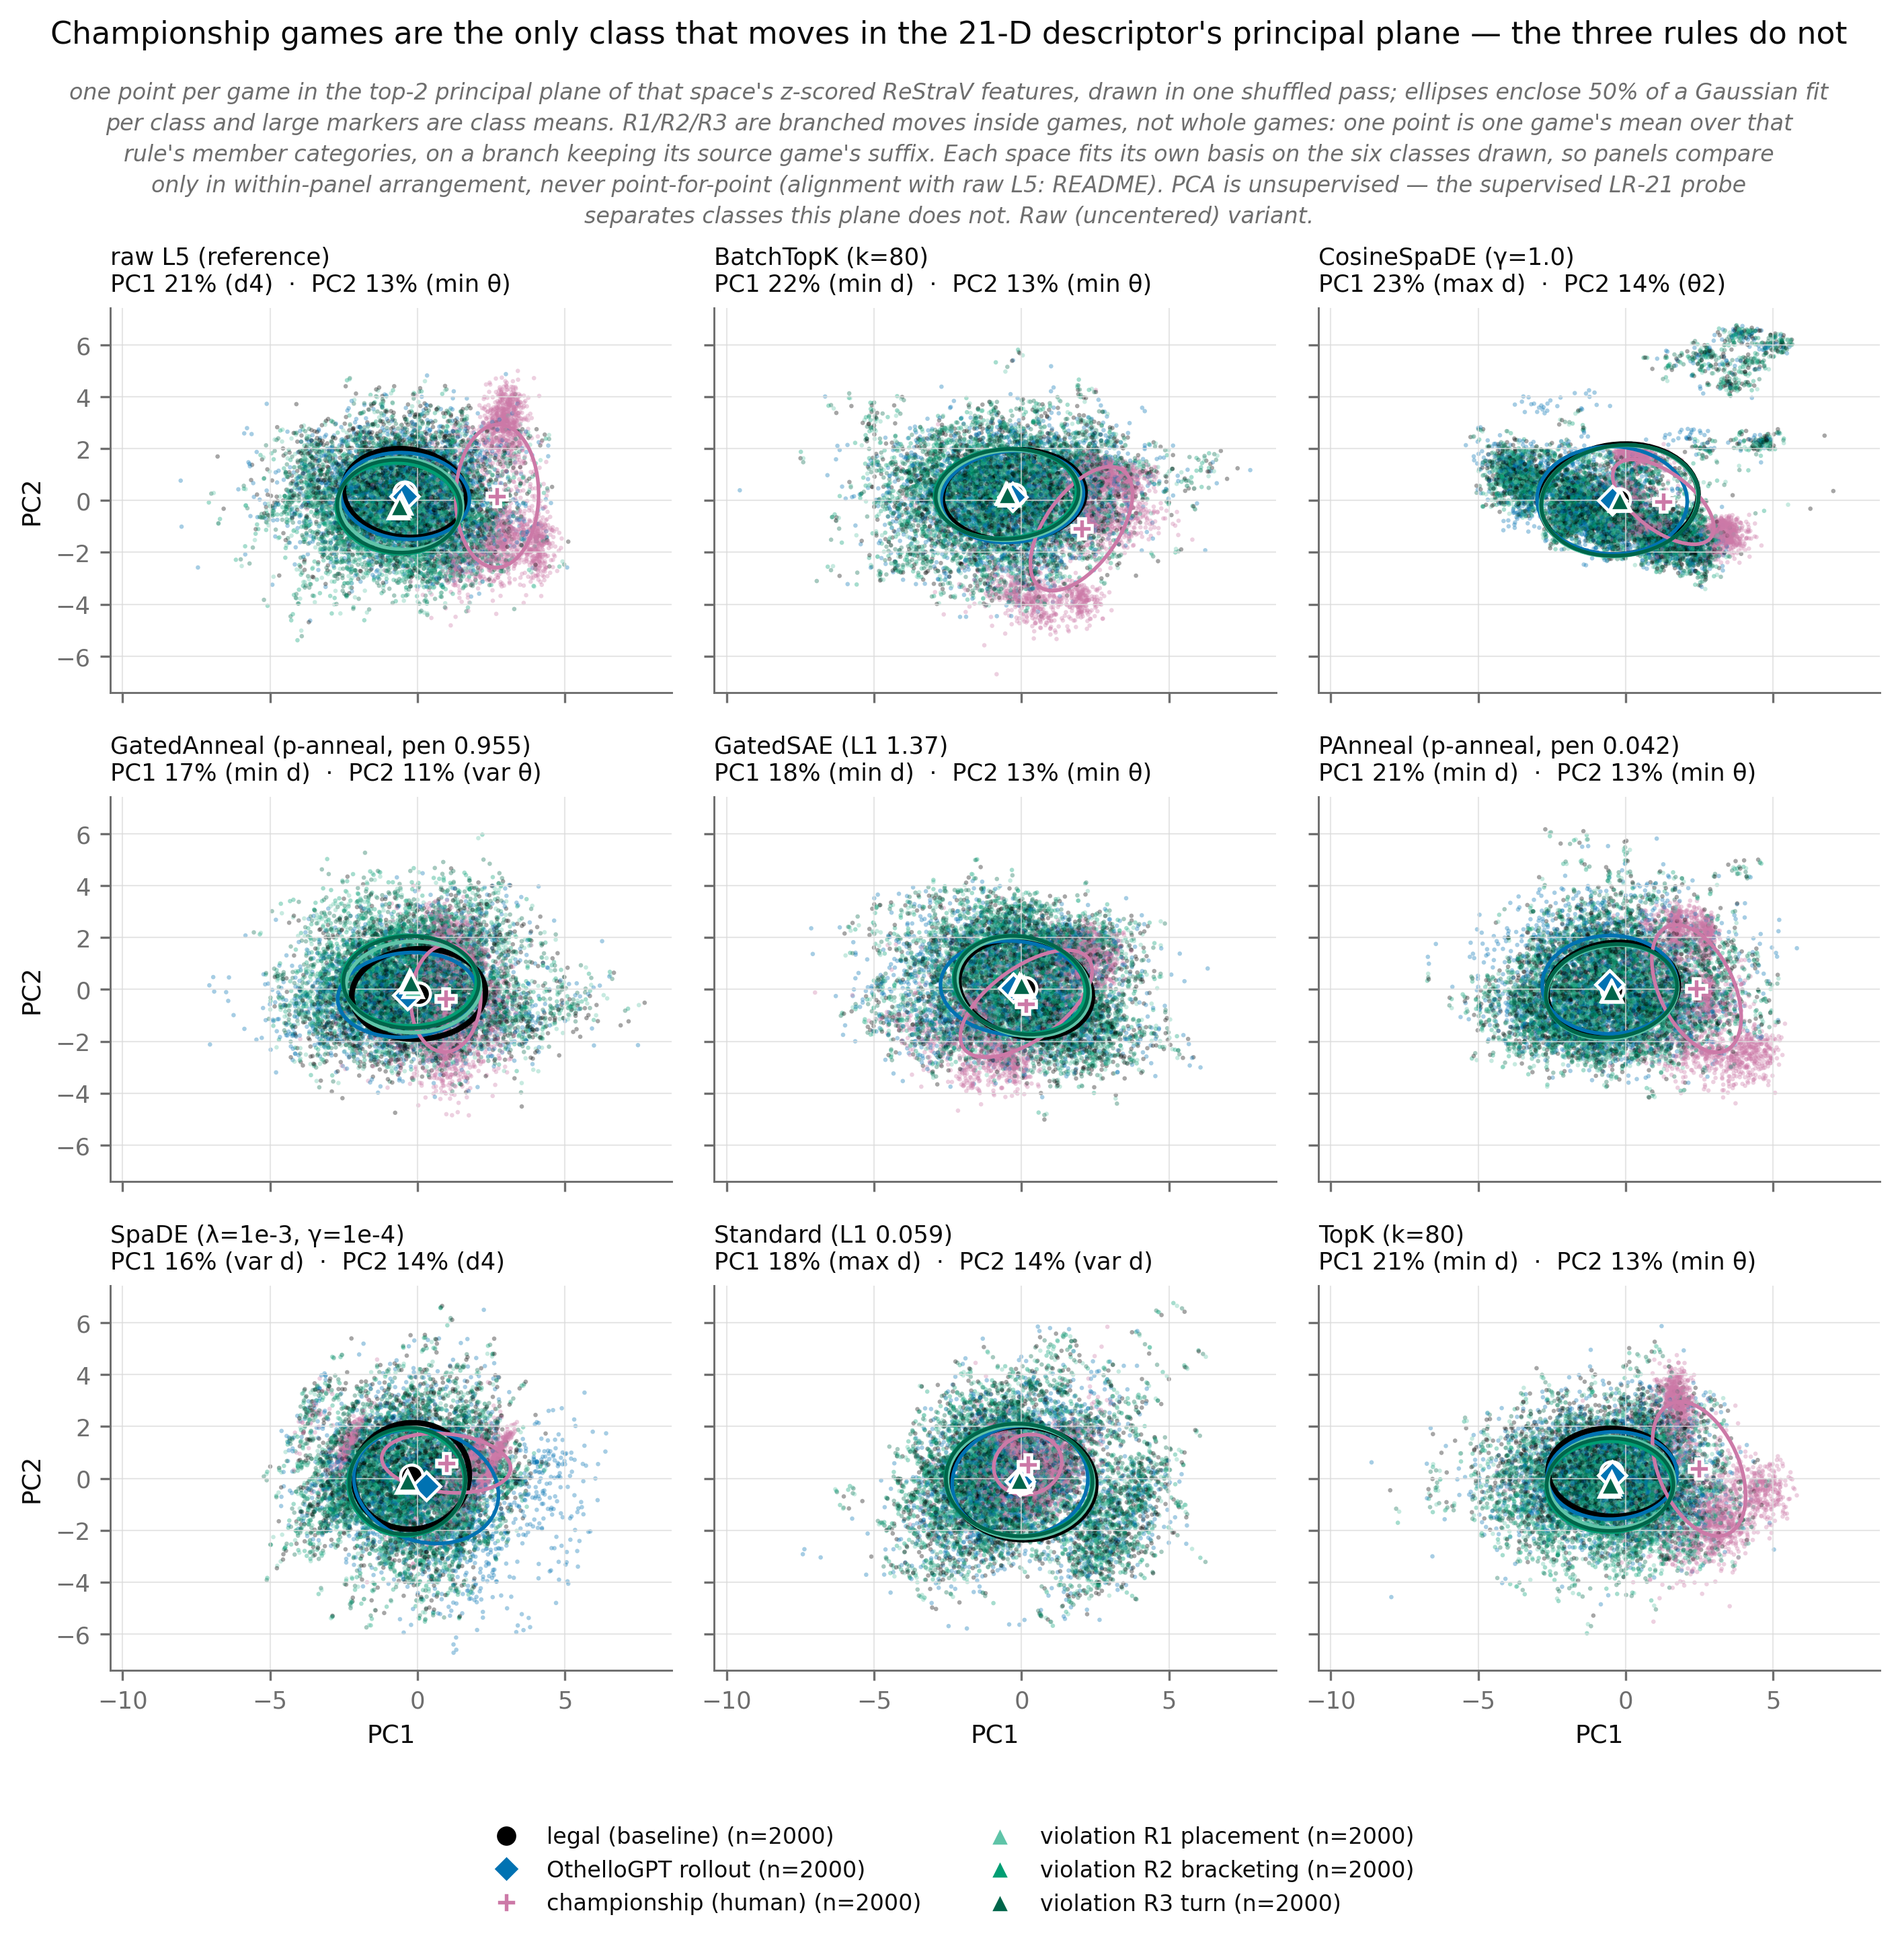
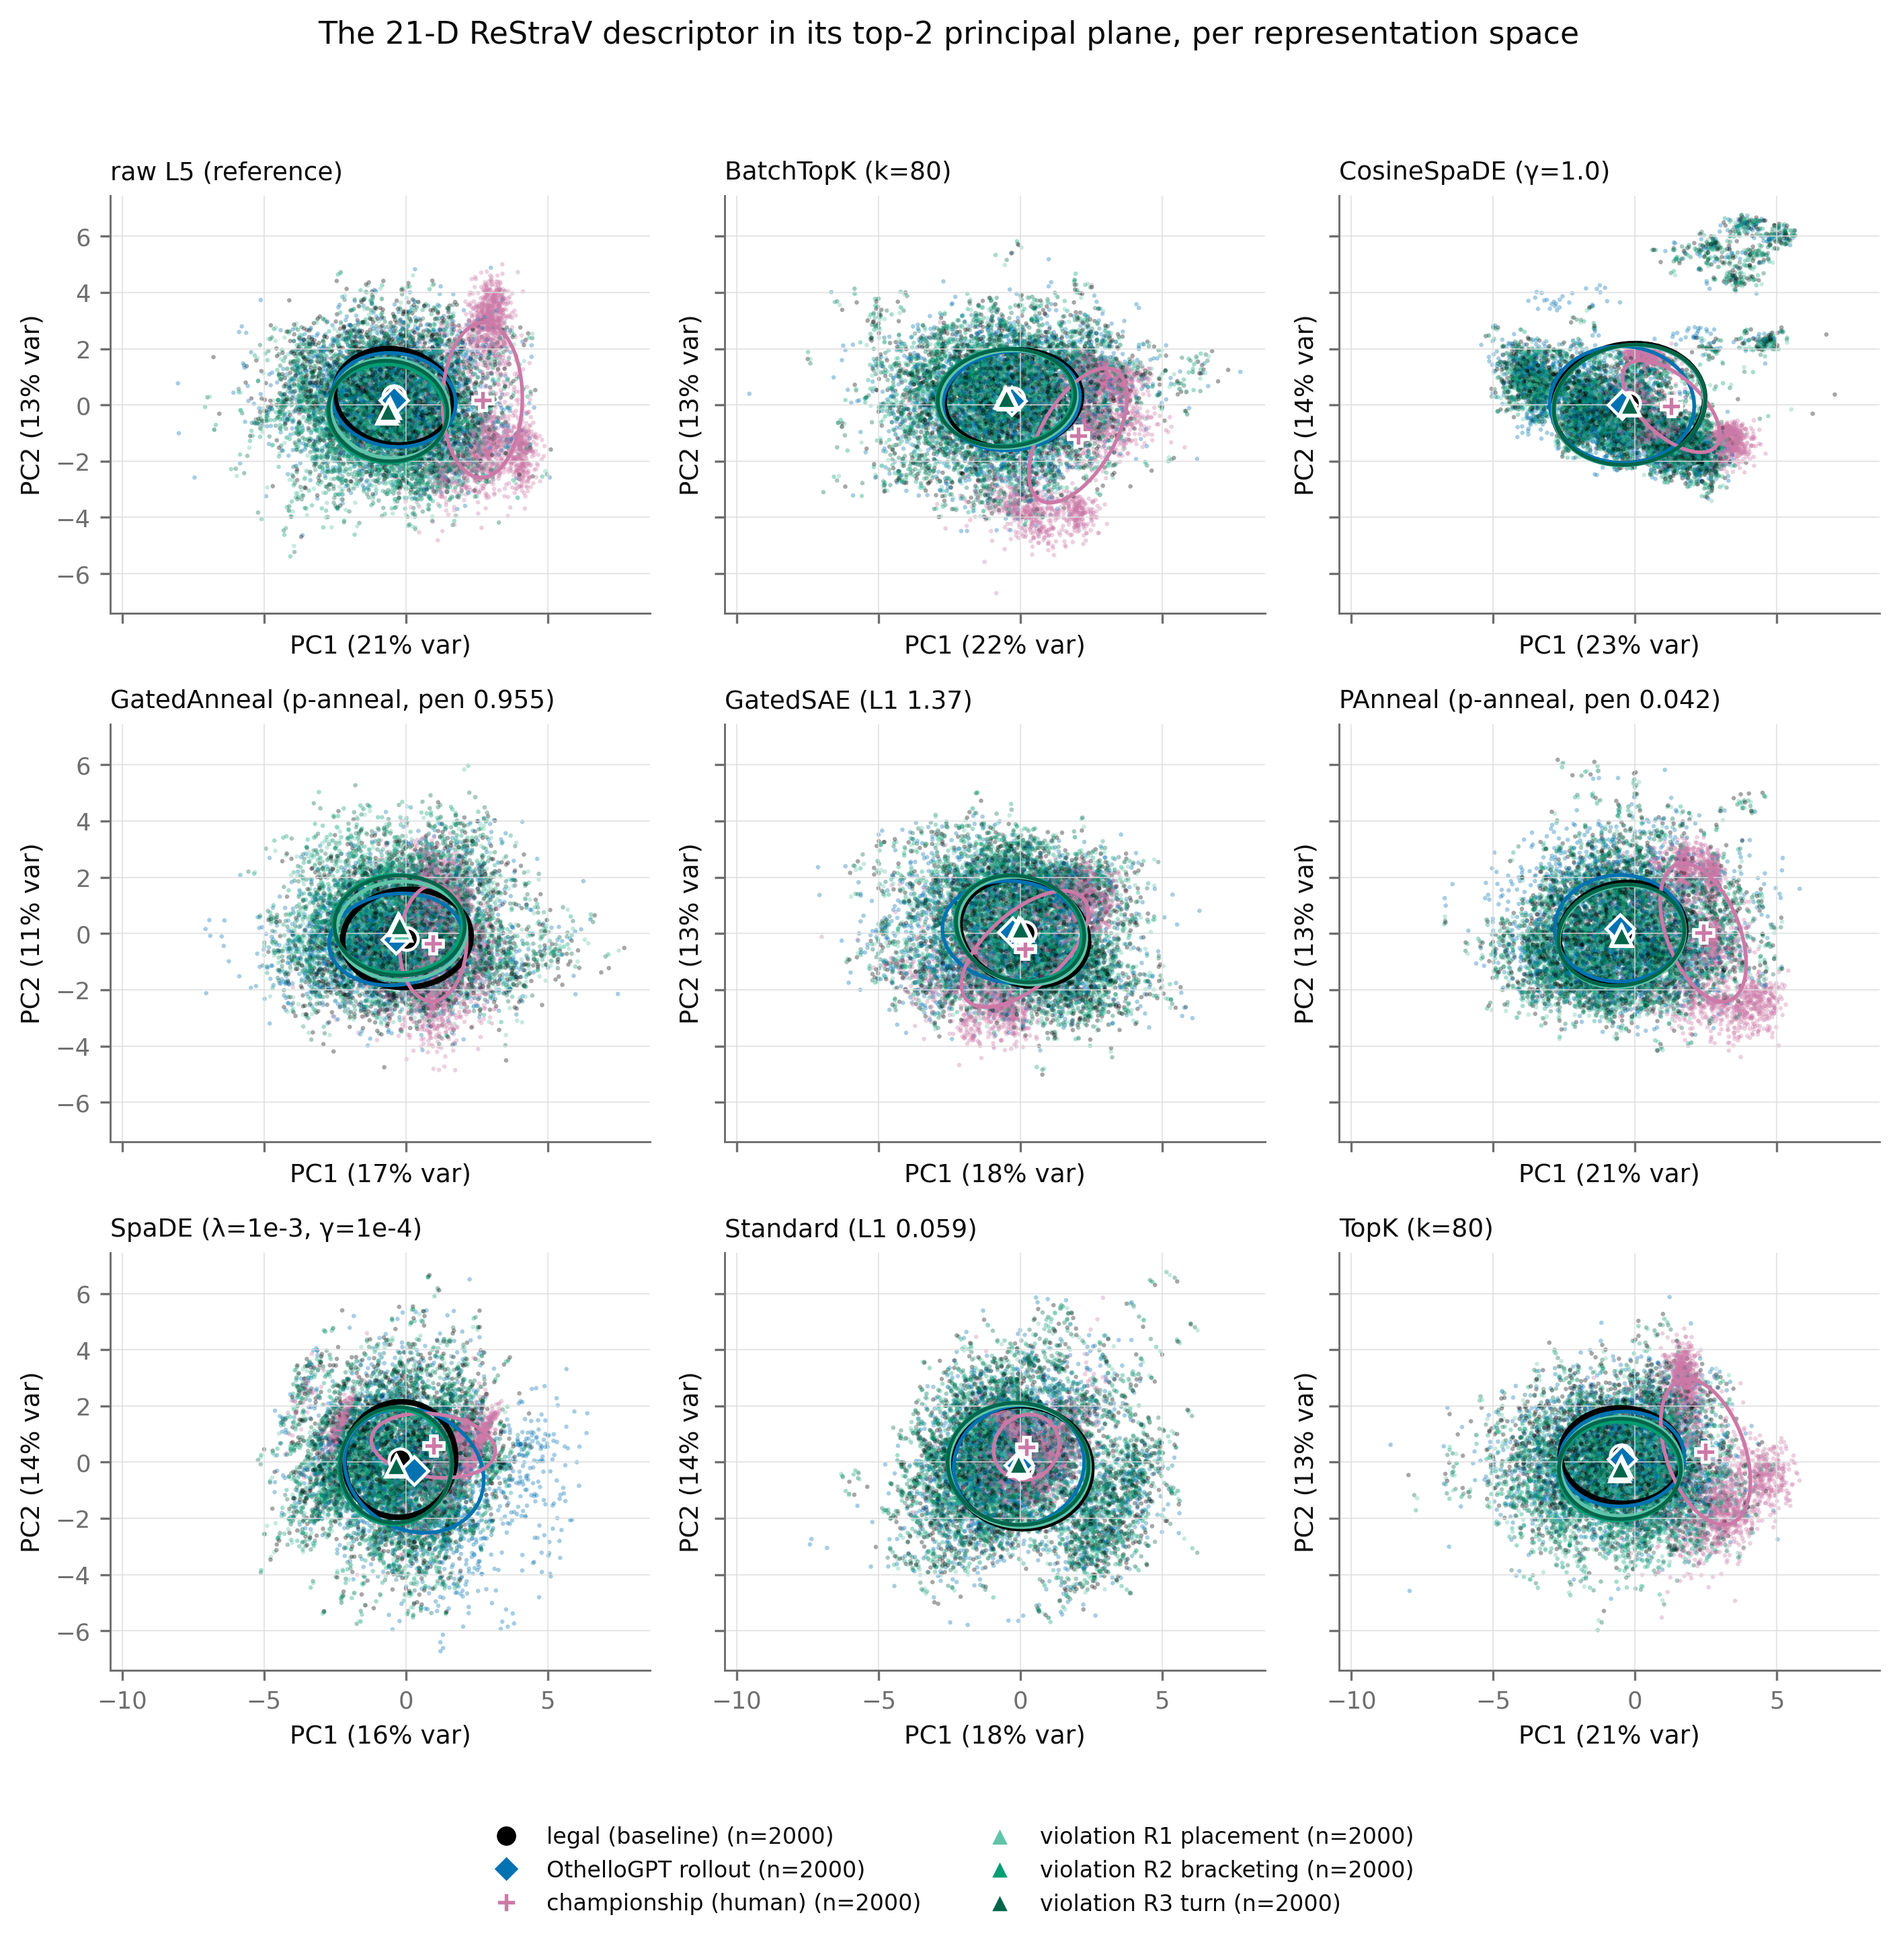
Strip the descriptor PCA down to its panels
The figure said its own conclusion in the title and carried five lines of gray
prose above the grid; both belong in the README, where the published caption now
is (the pattern rule_curvature already uses). The title describes what is drawn.

PC1/PC2 move onto every panel's axes and take that panel's variance ratio with
them, which is where FIGURE_GUIDELINES 4.6 wants it when each space fits its own
basis. The leading component names come off the panel titles -- nine of them
crowd a grid already carrying six classes -- and are printed instead, so the
README's claim about them stays re-derivable.

diff --git a/analysis/straightness/feature_pca/make_figures.py b/analysis/straightness/feature_pca/make_figures.py
@@ -35,7 +35,7 @@ import torch
 from spade.common.study import study_dir
 from spade.figures.embedding_panels import class_cloud
 from spade.figures.paper_style import (
-    CLASS_STYLE, MUTED, VIOLATION_RULE_STYLE, apply_style)
+    CLASS_STYLE, VIOLATION_RULE_STYLE, apply_style)
 from spade.figures.straightness_panels import class_blocks
 from spade.straightness.geometry import RESTRAV_FEATURE_NAMES, restrav_features
 from spade.violation_divergence import rule_curvature as rc
@@ -133,16 +133,13 @@ def restrav_pca() -> dict[str, Fit]:
             raw_loadings = vecs
         fits[label] = Fit(vecs, evr, class_shift(scores, labels))
         class_cloud(ax, scores, labels, STYLE, DRAWN, reference="legal")
-        lead = [RESTRAV_FEATURE_NAMES[i] for i in np.abs(vecs).argmax(1)]
-        ax.set_title(f"{label}\nPC1 {evr[0]:.0%} ({lead[0]})  ·  PC2 {evr[1]:.0%} "
-                     f"({lead[1]})", loc="left", fontsize=8.5)
+        ax.set_title(label, loc="left", fontsize=9)
+        # On every panel rather than on the edges: each space fits its own basis,
+        # so the variance ratio belongs on the axis it describes (§4.6).
+        ax.set_xlabel(f"PC1 ({evr[0]:.0%} var)")
+        ax.set_ylabel(f"PC2 ({evr[1]:.0%} var)")
     for ax in axes.flat[len(panels):]:
         ax.set_visible(False)
-    for ax in axes[-1]:
-        if ax.get_visible():
-            ax.set_xlabel("PC1")
-    for ax in axes[:, 0]:
-        ax.set_ylabel("PC2")
 
     handles, labels = axes.flat[0].get_legend_handles_labels()
     # Two columns of three: whole-game classes on the left, the three rules on the
@@ -151,22 +148,12 @@ def restrav_pca() -> dict[str, Fit]:
                         columnspacing=2.5, bbox_to_anchor=(0.5, -0.055))
     for h in legend.legend_handles:
         h.set_alpha(1)
-    fig.suptitle("Championship games are the only class that moves in the 21-D "
-                 "descriptor's principal plane — the three rules do not",
-                 fontsize=11, y=1.00)
-    fig.text(0.5, 0.966, "one point per game in the top-2 principal plane of that "
-             "space's z-scored ReStraV features, drawn in one shuffled pass; "
-             "ellipses enclose 50% of a Gaussian fit\nper class and large markers "
-             "are class means. R1/R2/R3 are branched moves inside games, not whole "
-             "games: one point is one game's mean over that\nrule's member "
-             "categories, on a branch keeping its source game's suffix. Each space "
-             "fits its own basis on the six classes drawn, so panels compare\nonly "
-             "in within-panel arrangement, never point-for-point (alignment with "
-             "raw L5: README). PCA is unsupervised — the supervised LR-21 probe\n"
-             "separates classes this plane does not. Raw (uncentered) variant.",
-             fontsize=8, color=MUTED, style="italic", ha="center", va="top",
-             linespacing=1.5)
-    fig.tight_layout(rect=(0, 0.03, 1, 0.925))
+    # Descriptive, not a claim, and no prose block: what a reader needs in order
+    # not to over-read the panels is the published caption in README.md, as in
+    # ../../violation_divergence/rule_curvature (FIGURE_GUIDELINES 5).
+    fig.suptitle("The 21-D ReStraV descriptor in its top-2 principal plane, "
+                 "per representation space", fontsize=11, y=1.00)
+    fig.tight_layout(rect=(0, 0.03, 1, 0.97))
     fig.savefig(FIG_DIR / "restrav_pca.png", dpi=300, bbox_inches="tight")
     plt.close(fig)
     return fits
@@ -177,13 +164,18 @@ def main():
     fits = restrav_pca()
     raw = fits["raw L5 (reference)"]
     ood = list(raw.shift)
-    print(f"{'space':34} {'PC1%':>5} {'PC2%':>5} {'|cos| raw PC1':>14} {'PC2':>5}"
+    # The leading loadings are printed rather than drawn: naming a component on
+    # nine panels crowds them, and the README's claim about them has to stay
+    # re-derivable without measuring a figure by eye.
+    print(f"{'space':34} {'PC1%':>5} {'PC2%':>5} {'lead PC1':>9} {'PC2':>7} "
+          f"{'|cos| raw PC1':>14} {'PC2':>5}"
           + "".join(f"{c.split()[0][:5] + ' d(PC1,PC2)':>22}" for c in ood))
     for label, fit in fits.items():
         cos = np.abs((fit.vecs @ raw.vecs.T).diagonal())
+        lead = [RESTRAV_FEATURE_NAMES[i] for i in np.abs(fit.vecs).argmax(1)]
         shift = "".join(f"{fit.shift[c][0]:+11.2f},{fit.shift[c][1]:+10.2f}" for c in ood)
-        print(f"{label:34} {fit.evr[0]:5.0%} {fit.evr[1]:5.0%} {cos[0]:14.2f} "
-              f"{cos[1]:5.2f}" + shift)
+        print(f"{label:34} {fit.evr[0]:5.0%} {fit.evr[1]:5.0%} {lead[0]:>9} "
+              f"{lead[1]:>7} {cos[0]:14.2f} {cos[1]:5.2f}" + shift)
     print(f"figure written to {FIG_DIR}")
 
 

diff --git a/analysis/straightness/feature_pca/README.md b/analysis/straightness/feature_pca/README.md
@@ -78,12 +78,35 @@ members are not drawn; one point per game per rule is the whole rule population.
   identity rides on the 50% contour and the centroid marker. Ellipses are a
   dispersion summary, not a confidence interval.
 
+## Caption
+
+The figure carries no prose block — only its panel titles, axis labels and
+legend. What a reader needs in order not to over-read it is here, and this is the
+caption it is published with (FIGURE_GUIDELINES §5).
+
+**Championship games are the only class that moves in the 21-D descriptor's
+principal plane, and the three constraint rules do not.** One point per game in
+the top-2 principal plane of that space's z-scored ReStraV features, drawn in one
+shuffled pass so no class sits on top of another; ellipses enclose 50% of a
+Gaussian fit per class (a dispersion summary, not a confidence interval) and large
+markers are class means. n per class is in the legend: 2000 everywhere. Legal,
+rollout and championship are whole games; **R1/R2/R3 are branched moves inside
+games** — one point is one game's mean over that rule's member categories, on a
+branch that keeps its source game's real suffix, forking at *t0* ∈ [10, 34]. Each
+space fits its own basis on the six classes drawn, so **panels compare only in
+within-panel arrangement, never point-for-point**; the alignment between bases is
+the table below. Axis labels carry each panel's own variance ratio. PCA is
+unsupervised — the supervised LR-21 probe separates classes this plane does not.
+Raw (uncentered) variant, layer 5, seed 42, spliced branch tree.
+
 ## Results
 
 **PC1 is a step-length axis in all nine spaces**, carrying 16–23% of the
 variance against PC2's 11–14% — a shallow spectrum, as befits six classes that
-mostly overlap. Its largest loading is always in the `d` block; PC2 leads on a
-turning-angle component in 7 of 9.
+mostly overlap. Its largest loading is in the `d` block in 9 of 9; PC2 leads on a
+turning-angle component in 7 of 9, the exceptions being SpaDE and Standard. The
+panels do not name their components — nine of those labels crowd a grid that is
+already carrying six classes — so `make_figures.py` prints them instead.
 
 **Championship games are the only class that moves in the plane, and the three
 rules do not.** As a class mean minus legal's, in pooled SD along each PC
